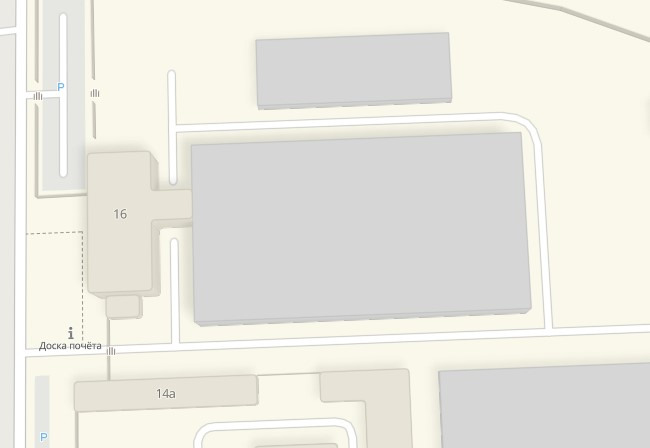
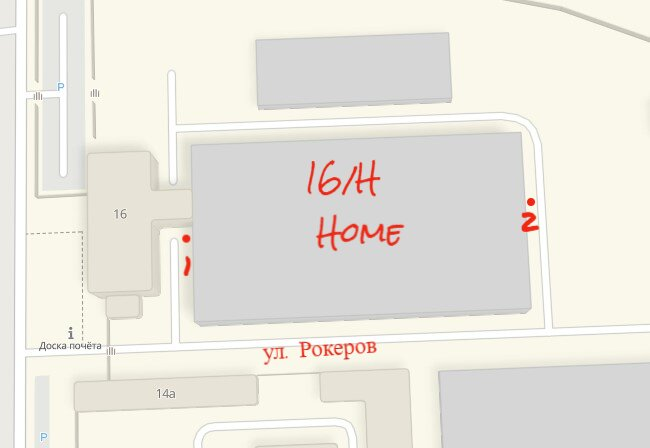
style page self_pickUp

diff --git a/main/templates/main/self_pick_up.html b/main/templates/main/self_pick_up.html
@@ -4,13 +4,32 @@
 
 {% block css %} 
         <link rel="stylesheet" href="{% static "deps/css/my_footer_css.css" %}">
-        <link rel="stylesheet" href="{% static "deps/css/delivery_payment_page.css" %}">
+        <link rel="stylesheet" href="{% static "deps/css/self_pickup.css" %}">
 {% endblock %} 
 
 
 {% block content %}
 
-<h1>СТРАНИЦА СВМОВЫВОЗа</h1>
+<div class="scheme">
+        <h1 class="scheme_text_header">Схема проезда</h1>
+        <img class="schtme_directions_img custom-shadow" src="{% static "deps/images/self_pickup/directions.jpg" %}" alt="">
+        <div class="scheme_discriptions">
+                <p class="scheme_text">Cамовывоз вы можете произвести по адресу <strong>г. Улетный, улица Рокеров 16/H.</strong></p>
+                <p class="scheme_text"><strong>Время:  Пн-Пт с 8:00-19:00.</strong></p>
+                <p class="scheme_text">Врата 1: Для мелких и средних товаров.</p>
+                <p class="scheme_text">Врата 2: Для крупных и особокрупных товаров.</p>
+        </div>
+        <div class="warning_block">
+                <img src="{% static "/deps/images/payment_various/warning.png" %}" alt="КАРТИНКА С ! ЗНАКОМ" class="warning_img">
+                <div class="warning_text_container">
+                        <p class="warning_text">ПРЕДУПРЕЖДЕНИЕ О ТОМ ЧТО ПРИ САМОВЫВОЗЕ НУЖНА С СОБОЙ В РАСПЕЧАТАННОМ ВИДЕ КВИТАНЦИЯ</p>
+                </div>
+        </div>
+
+
+
+</div>
+
 
 
 

diff --git a/static/deps/css/self_pickup.css b/static/deps/css/self_pickup.css
@@ -1,0 +1,25 @@
+.schtme_directions_img{
+    border: 3px solid black;
+    border-radius: 50px;
+    margin: 20px 0px 40px 0px ;
+}
+
+
+.scheme_discriptions{
+    background-color: black;
+    border: 3px solid black;
+    border-radius: 50px;
+    padding: 0px 0px 20px 30px;
+
+
+
+
+}
+.scheme_text{
+    font-size: 24px;
+    color: white;
+}
+.warning_img{
+    width: 64px;
+    height: 64px;
+}
